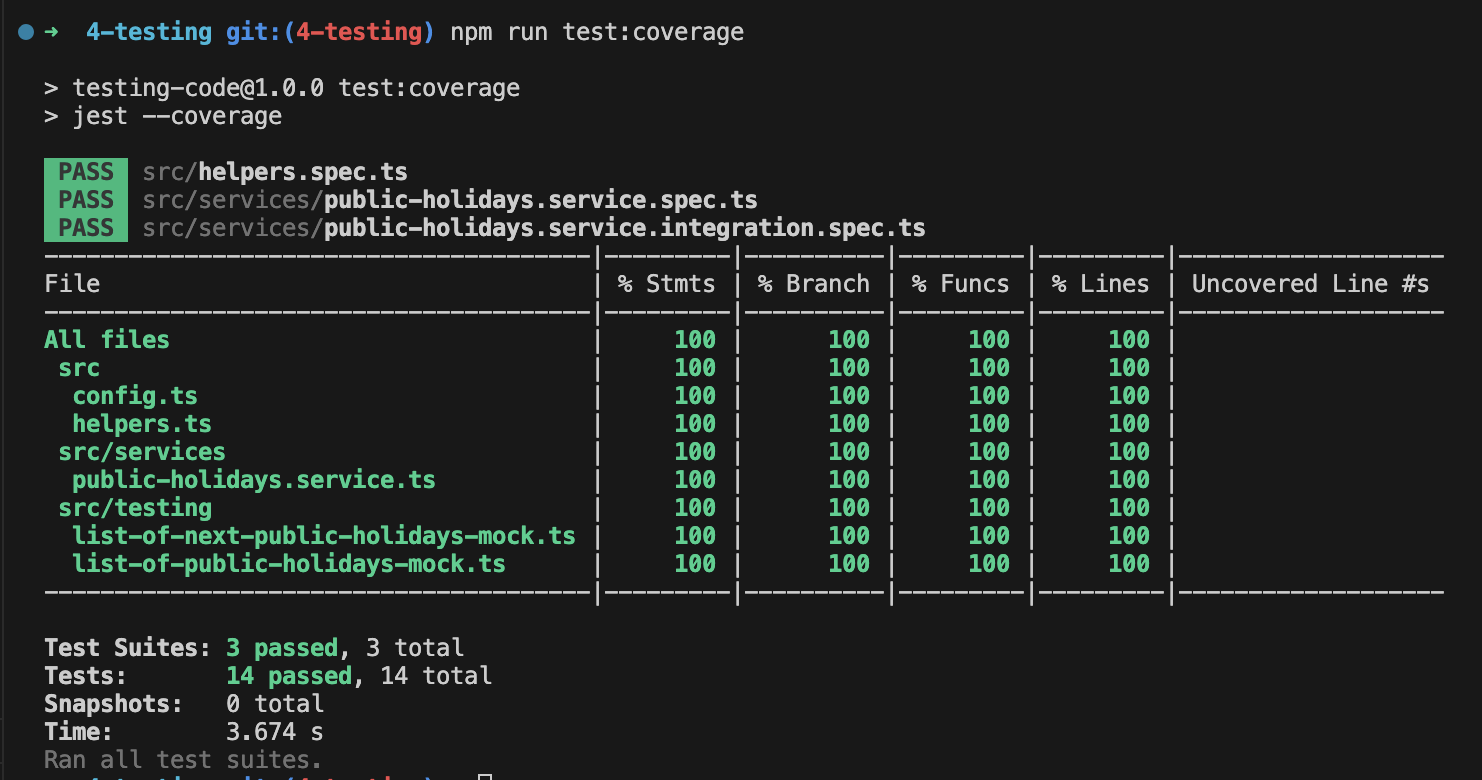
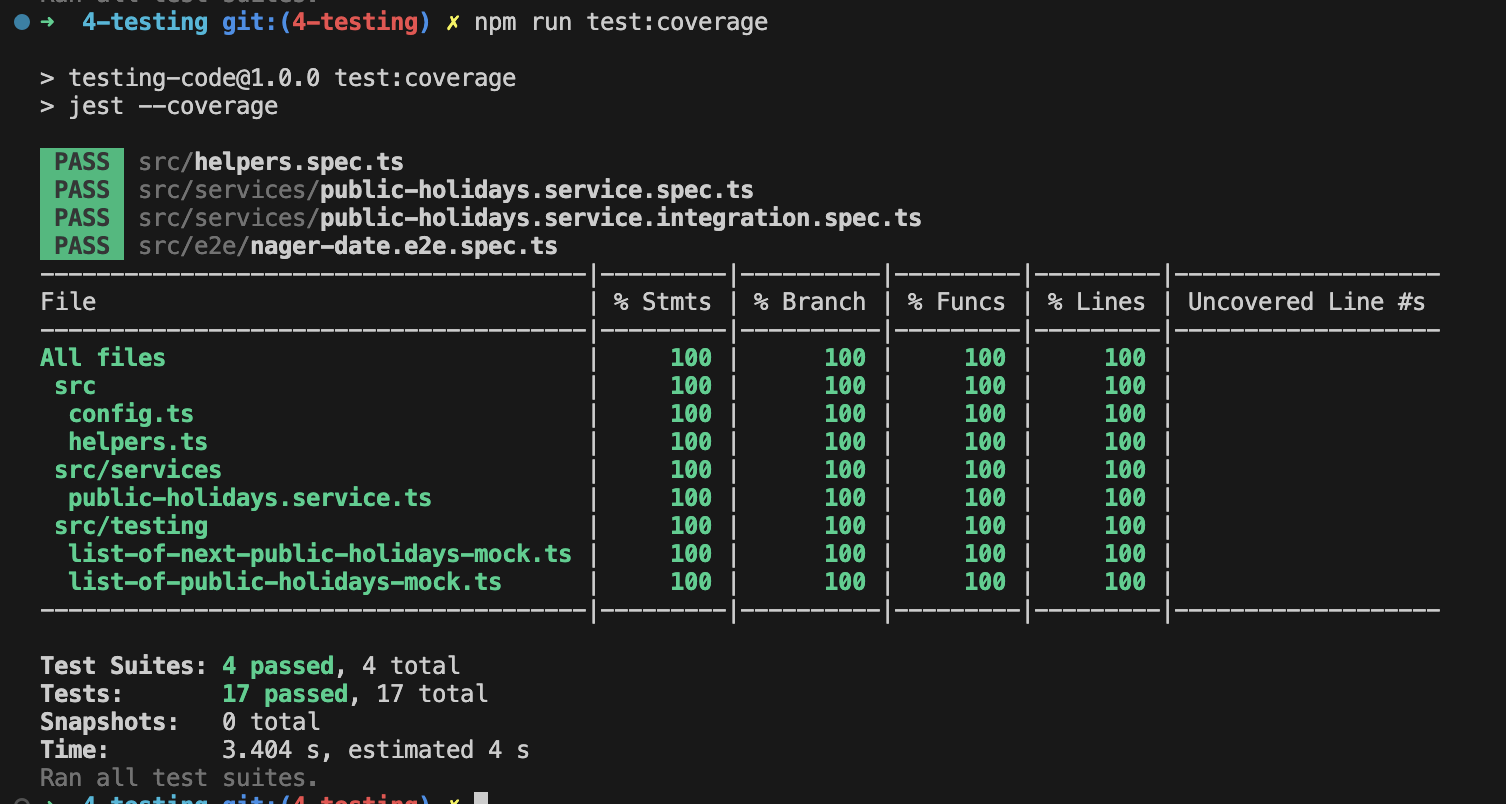
add e2e tests for nager date api

diff --git a/4-testing/src/e2e/nager-date.e2e.spec.ts b/4-testing/src/e2e/nager-date.e2e.spec.ts
@@ -1,0 +1,51 @@
+import request from 'supertest';
+
+const NAGER_DATE_API = "https://date.nager.at";
+
+describe('Nager API', () => {
+  describe('/api/v3/Version', () => {
+    it('should name and version', async () => {
+      const { status, body } = await request(NAGER_DATE_API).get('/api/v3/Version');
+  
+      expect(status).toEqual(200);
+      expect(body).toEqual({
+        version: expect.any(String),
+        name: 'Nager.Date'
+      })
+    });
+  });
+
+  describe('/api/v3/LongWeekend', () => {
+    it('should return 200 and list of long weekends for given country', async () => {
+      const year = 2020;
+      const country = 'NL';
+      const { status, body } = await request(NAGER_DATE_API).get(`/api/v3/LongWeekend/${year}/${country}`);
+  
+      expect(status).toEqual(200);
+      body.forEach((holiday: any) => {
+        expect(holiday).toEqual({
+          startDate: expect.any(String),
+          endDate: expect.any(String),
+          dayCount: expect.any(Number),
+          needBridgeDay: expect.any(Boolean),
+        });
+      });
+    });
+  });
+
+  describe('/api/v3/CountryInfo', () => {
+    it('should return 200 and country info for given country', async () => {
+      const country = 'NL';
+      const { status, body } = await request(NAGER_DATE_API).get(`/api/v3/CountryInfo/${country}`);
+  
+      expect(status).toEqual(200);
+      expect(body).toEqual({
+        commonName: expect.any(String),
+        officialName: expect.any(String),
+        countryCode: expect.any(String),
+        region: expect.any(String),
+        borders: expect.any(Array),
+      });
+    });
+  });
+});
